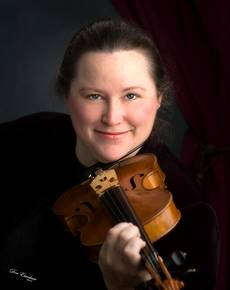
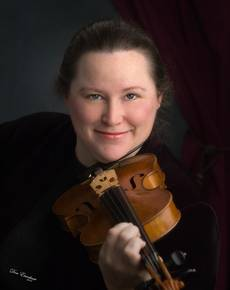
imagekit fix for dark images?

diff --git a/soloists/soloist_specs.py b/soloists/soloist_specs.py
@@ -12,11 +12,9 @@ class ResizeDisplay(processors.Resize):
     height = 380 
 	
 class EnchanceThumb(processors.Adjustment):
-	contrast = 1.2
 	sharpness = 1.2
 	
 class EnchanceDisplay(processors.Adjustment):
-	contrast = 1.2
 	sharpness = 1.2
 	
 class Thumbnail(ImageSpec):

diff --git a/roster/member_specs.py b/roster/member_specs.py
@@ -13,11 +13,9 @@ class ResizeDisplay(processors.Resize):
     height = 300
 	
 class EnchanceThumb(processors.Adjustment):
-	contrast = 1.2
 	sharpness = 1.2
 	
 class EnchanceDisplay(processors.Adjustment):
-	contrast = 1.2
 	sharpness = 1.2
 	
 class Thumbnail(ImageSpec):

diff --git a/events/event_specs.py b/events/event_specs.py
@@ -13,7 +13,6 @@ class ResizeDisplay(processors.Resize):
     
 	
 class EnchanceThumb(processors.Adjustment):
-	contrast = 1.2
 	sharpness = 1.2
 	
 class Thumbnail(ImageSpec):
